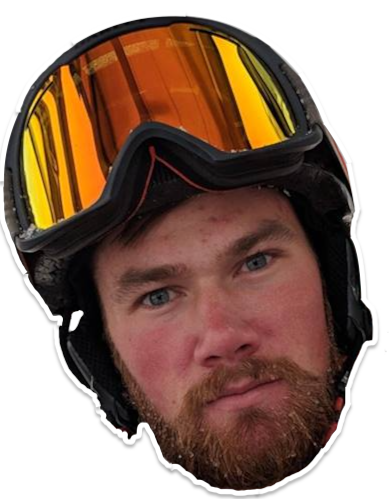
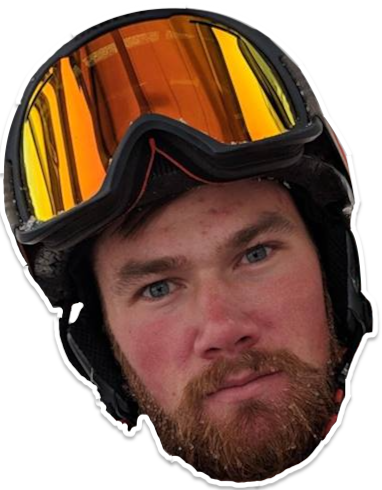
cropped and updated image dimensions

diff --git a/src/components/playerData.js b/src/components/playerData.js
@@ -6,8 +6,8 @@ const players = {
     gameplayImage: require('../../images/daniel-kahle/daniel-face-with-border.png'),
     landingText: require('../../images/daniel-kahle/daniel-logo-words.png'),
     itemToEat: require('../../images/daniel-kahle/taco.png'),
-    faceWidth: 270,
-    faceHeight: 331,
+    faceWidth: 269,
+    faceHeight: 318,
     itemWidth: 577,
     itemHeight: 493,
     itemScale: 93/100
@@ -19,7 +19,7 @@ const players = {
     gameplayImage: require('../../images/charkie/charkie-snake-with-border.png'),
     landingText: require('../../images/charkie/charkie-logo-words.png'),
     itemToEat: require('../../images/charkie/watermelon.png'),
-    faceWidth: 534,
+    faceWidth: 466,
     faceHeight: 614,
     itemWidth: 363,
     itemHeight: 298,
@@ -32,8 +32,8 @@ const players = {
     gameplayImage: require('../../images/betsy-jones/betsy-snake-with-border.png'),
     landingText: require('../../images/betsy-jones/betsy-logo-words.png'),
     itemToEat: require('../../images/betsy-jones/pizza.png'),
-    faceWidth: 221,
-    faceHeight: 239,
+    faceWidth: 218,
+    faceHeight: 196,
     itemWidth: 798,
     itemHeight: 625,
     itemScale: 83/100
@@ -45,8 +45,8 @@ const players = {
     gameplayImage: require('../../images/dutch/dutch-snake-with-border.png'),
     landingText: require('../../images/dutch/dutch-logo-words.png'),
     itemToEat: require('../../images/dutch/championship-belt.png'),
-    faceWidth: 370,
-    faceHeight: 514,
+    faceWidth: 365,
+    faceHeight: 507,
     itemWidth: 785,
     itemHeight: 255,
     itemScale: 80/100
@@ -58,8 +58,8 @@ const players = {
     gameplayImage: require('../../images/gabe-rees/gabe-snake-with-border.png'),
     landingText: require('../../images/gabe-rees/gabe-logo-words.png'),
     itemToEat: require('../../images/gabe-rees/beer-can.png'),
-    faceWidth: 389,
-    faceHeight: 499,
+    faceWidth: 382,
+    faceHeight: 490,
     itemWidth: 805,
     itemHeight: 1283,
     itemScale: 1
@@ -71,8 +71,8 @@ const players = {
     gameplayImage: require('../../images/neil/neil-snake-with-border.png'),
     landingText: require('../../images/neil/neil-logo-words.png'),
     itemToEat: require('../../images/neil/water.png'),
-    faceWidth: 516,
-    faceHeight: 760,
+    faceWidth: 505,
+    faceHeight: 758,
     itemWidth: 280,
     itemHeight: 694,
     itemScale: 67/100
